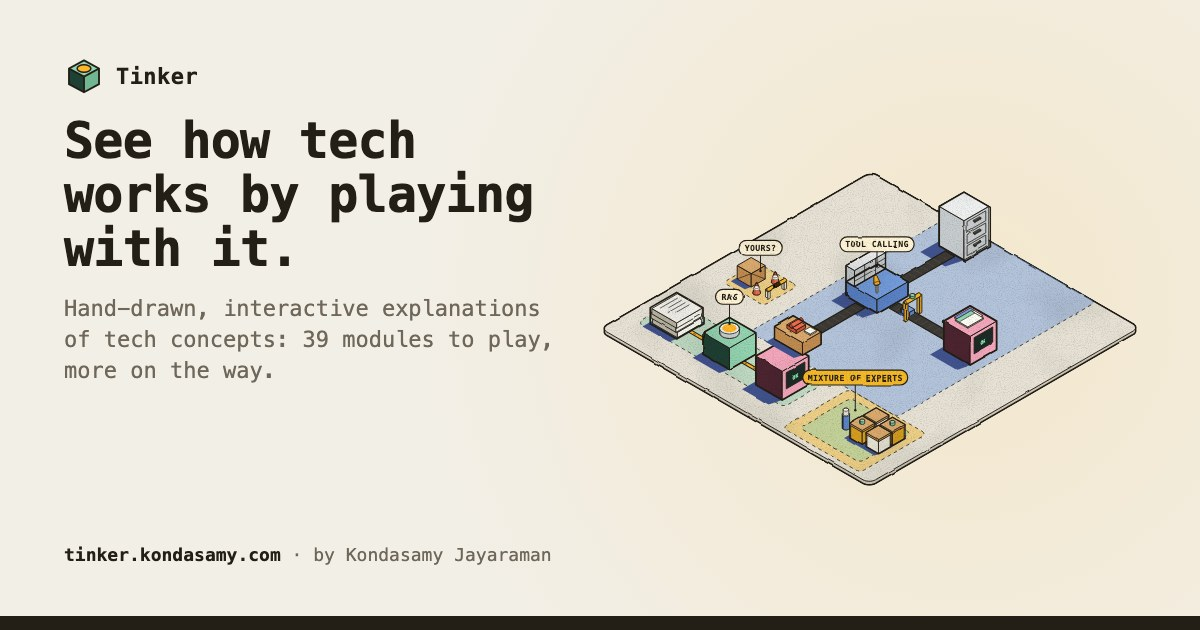
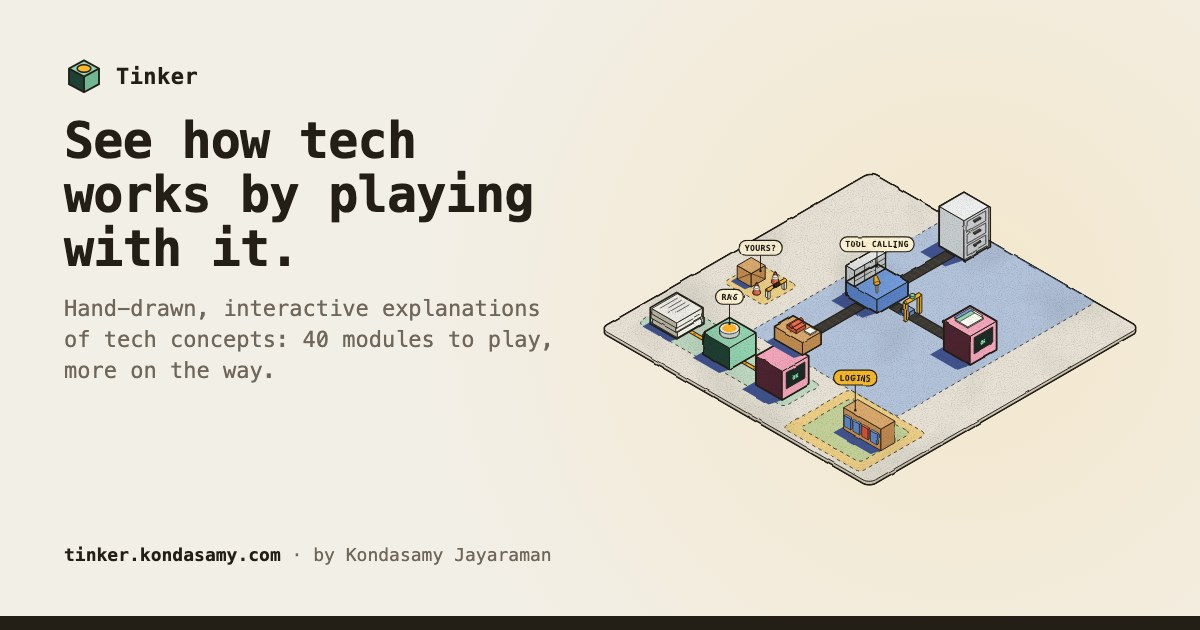
feat(logins): Logins and passwords goes live as module 40
Registry entry after Mixture of experts in place of the planned card, home card and hero plot (cloakPlot), share-image cases and images, home.jpg, the step-id pins for its chapters, the catalogue and module tests, and the go-live e2e checks.

Changed region(s): [[0.6475, 0.573, 0.7708, 0.7238], [0.2467, 0.5127, 0.2775, 0.5429]]

diff --git a/tests/e2e/logins.spec.ts b/tests/e2e/logins.spec.ts
@@ -1,14 +1,16 @@
 // Logins and passwords: the intro, every chapter played by mouse and by keyboard only, its own progress key, the
 // cracking race by keyboard (radios, the range, Play and Step, one read-out), real PBKDF2, TOTP and ECDSA run in the
 // browser against their pins, the workbench with a losing plan and a winning one, "I'm not sure", reduced motion, the
-// recap, axe and phone width. The module number, share images and home's card are checked at go-live.
+// recap, axe and phone width. The go-live adds the module's number, share images and home's card.
 import { test, expect, type Page } from '@playwright/test';
 import pinned from '../../data/logins/pinned.json' with { type: 'json' };
 import { LOGINS_MODULE as M } from '../../src/content/logins/module';
+import { MODULES } from '../../src/lib/modules';
 import { START } from '../../src/lib/logins/workbench';
 import { BENCH_LABELS, loginsWalker } from './logins-flow';
 import { serious, layoutHolds, PHONE } from './helpers';
 
+const NUMBER = MODULES.filter(m => m.status === 'live').findIndex(m => m.id === 'logins') + 1;
 const IDS = M.chapters.map(c => c.id);
 const [CH1, CH2, CH3, CH4, CH5, CH6, CH7] = IDS;
 const at = (id: string) => new RegExp(`/logins/${id}/$`);
@@ -39,6 +41,28 @@ test('the intro shows the level, the author, the chapters and the Colorfigures c
   await page.getByRole('button', { name: 'Words' }).click();
   await expect(page.locator('.band .note.more')).toBeVisible();
   await axe(page);
+});
+
+test('its module number on the intro and the recap', async ({ page }) => {
+  await page.goto('/logins/');
+  await expect(page.locator('.hero .kicker')).toHaveText(`Module ${NUMBER} · Logins and passwords`);
+  await page.goto('/logins/recap/');
+  await expect(page.locator('.hero .kicker')).toHaveText(`Module ${NUMBER} · Recap`);
+});
+
+test('go-live: own share images and home’s card', async ({ page }) => {
+  await page.goto('/logins/');
+  await expect(page.locator('meta[property="og:image"]')).toHaveAttribute('content', /\/og\/logins\.jpg$/);
+  await page.goto(`/logins/${CH1}/`);
+  await expect(page.locator('meta[property="og:image"]')).toHaveAttribute(
+    'content',
+    new RegExp(`/og/logins-${CH1}\\.jpg$`),
+  );
+  await page.goto('/logins/recap/');
+  await expect(page.locator('meta[property="og:image"]')).toHaveAttribute('content', /\/og\/logins-recap\.jpg$/);
+  expect((await page.request.get('/og/logins.jpg')).status()).toBe(200);
+  await page.goto('/');
+  await expect(page.locator('.module[data-module="logins"] h4 a')).toHaveAttribute('href', '/logins/');
 });
 
 test('every chapter plays by mouse, in order through the Next links, with axe clean at each check', async ({

diff --git a/src/lib/modules.ts b/src/lib/modules.ts
@@ -38,6 +38,7 @@ import { ENCRYPTION_MODULE } from '../content/encryption/module';
 import { CODING_AGENTS_MODULE } from '../content/coding-agents/module';
 import { SYNTHETIC_DATA_MODULE } from '../content/synthetic-data/module';
 import { MIXTURE_OF_EXPERTS_MODULE } from '../content/mixture-of-experts/module';
+import { LOGINS_MODULE } from '../content/logins/module';
 import type { RecallItem } from './recall';
 
 export type Level = 'Beginner' | 'Intermediate' | 'Advanced';
@@ -135,6 +136,7 @@ export const MODULES: Module[] = [
   CODING_AGENTS_MODULE,
   SYNTHETIC_DATA_MODULE,
   MIXTURE_OF_EXPERTS_MODULE,
+  LOGINS_MODULE,
   planned(
     'memorisation',
     'What a model remembers',
@@ -152,13 +154,6 @@ export const MODULES: Module[] = [
     'Recommendations',
     'Intermediate',
     'Why the shop shows you this drill: what you and people like you bought, ranked, and the loop it feeds.',
-  ),
-  planned(
-    'logins',
-    'Logins and passwords',
-    'Beginner',
-    'How a site knows it is you: hashed and salted passwords, a session cookie, and signing in with another site.',
-    'Classic tech',
   ),
   planned(
     'email',

diff --git a/src/components/scenes/heroScene.ts b/src/components/scenes/heroScene.ts
@@ -60,6 +60,7 @@ import { paintPlot } from './paintScene';
 import { agentDeskPlot } from './deskScene';
 import { copierPlot } from './copierScene';
 import { roomsPlot } from './officeRoomsScene';
+import { cloakPlot } from './cloakScene';
 import { SEQ_MSGS } from './toolSequence';
 import { MODULES } from '../../lib/modules';
 import type { Msg } from '../../lib/iso/flat';
@@ -261,6 +262,7 @@ const DRAW: Record<string, HeroPlot['draw']> = {
   'coding-agents': (x, y, { top }) => agentDeskPlot(x + 14, y - 2, top),
   'synthetic-data': (x, y, { top }) => copierPlot(x + 14, y - 2, top),
   'mixture-of-experts': (x, y, { top }) => roomsPlot(x + 14, y - 4, top),
+  logins: (x, y, { top }) => cloakPlot(x + 14, y - 2, top),
 };
 const LIVE = MODULES.filter(m => m.status === 'live');
 /** the home page's hero and share image, from the registry: the model's call riding to the host */

diff --git a/tests/unit/modules.test.ts b/tests/unit/modules.test.ts
@@ -702,6 +702,18 @@ describe('module registry', () => {
     expect(MODULES.filter(m => m.status === 'live').findIndex(m => m.id === 'mixture-of-experts')).toBe(38);
   });
 
+  it('has logins as a live Beginner Classic tech module after Locks and keys, numbered 40', () => {
+    expect(moduleOf('logins')).toMatchObject({
+      title: 'Logins and passwords',
+      level: 'Beginner',
+      track: 'Classic tech',
+      status: 'live',
+      prereqs: ['encryption'],
+    });
+    expect(moduleOf('logins').author).toEqual(moduleOf('rag').author);
+    expect(MODULES.filter(m => m.status === 'live').findIndex(m => m.id === 'logins')).toBe(39);
+  });
+
   it('keeps chapter ids unique within every module', () => {
     for (const m of MODULES) expect(new Set(m.chapters.map(c => c.id)).size, m.id).toBe(m.chapters.length);
   });

diff --git a/tests/e2e/catalogue.spec.ts b/tests/e2e/catalogue.spec.ts
@@ -46,6 +46,7 @@ const NUMBERED = [
   'coding-agents',
   'synthetic-data',
   'mixture-of-experts',
+  'logins',
 ];
 
 // every module sits at its level: live cards first, then the roadmap's planned cards in registry (build) order;
@@ -323,6 +324,10 @@ test('live modules keep their numbers, each linked under its level', async ({ pa
   await expect(page.locator('[data-level="Advanced"] .module[data-module="mixture-of-experts"] h4 a')).toHaveAttribute(
     'href',
     '/mixture-of-experts/',
+  );
+  await expect(page.locator('[data-level="Beginner"] .module[data-module="logins"] h4 a')).toHaveAttribute(
+    'href',
+    '/logins/',
   );
 });
 
